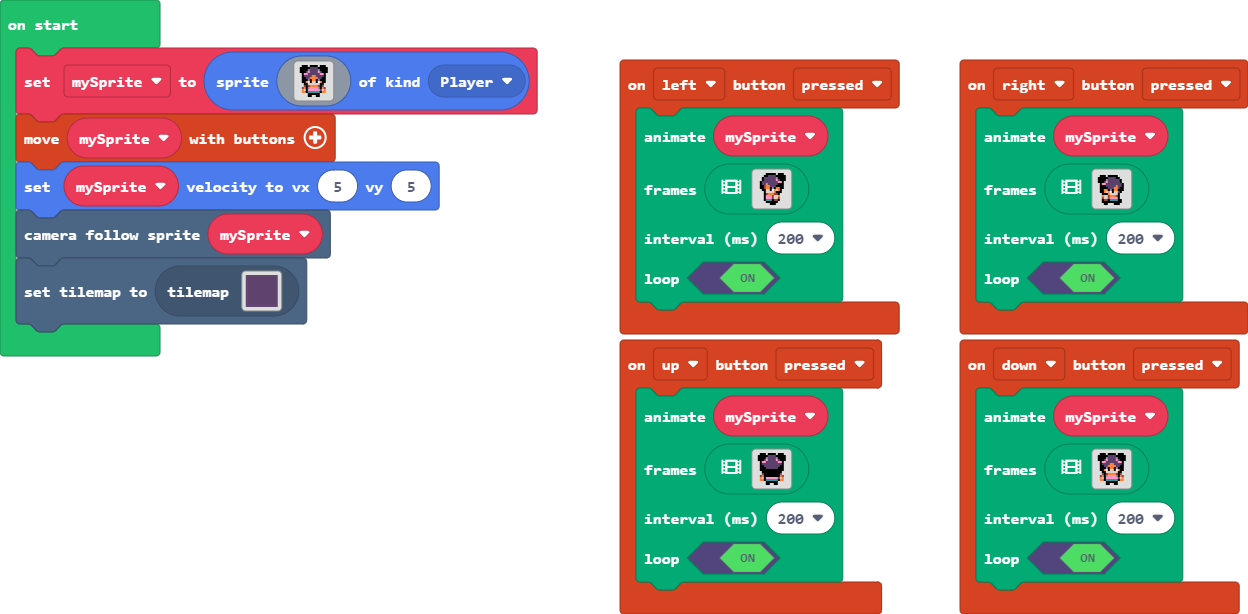
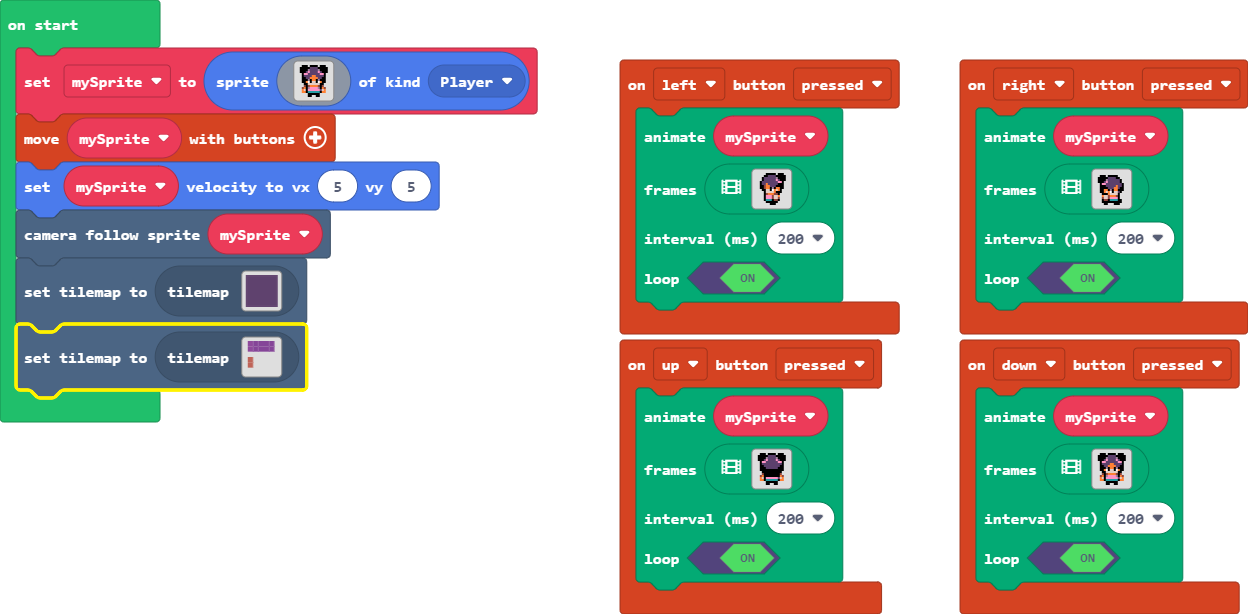
Update main.blocks, main.ts, tilemap.g.jres, tilemap.g.ts

Changed region(s): [[0.0, 0.5261, 0.25, 0.7117]]

diff --git a/tilemap.g.ts b/tilemap.g.ts
@@ -43,6 +43,15 @@ namespace myTiles {
 . . . . . . . . . . . . . . . . 
 . . . . . . . . . . . . . . . . 
 `, [myTiles.transparency16,sprites.dungeon.darkGroundNorthWest0,sprites.dungeon.darkGroundNorth,sprites.dungeon.darkGroundNorthEast0,sprites.dungeon.darkGroundEast,sprites.dungeon.darkGroundWest,sprites.dungeon.darkGroundSouthWest0,sprites.dungeon.darkGroundSouthEast0,sprites.dungeon.darkGroundSouth,sprites.dungeon.darkGroundCenter], TileScale.Sixteen);
+            case "level3":
+            case "level3":return tiles.createTilemap(hex`05000600030404040402010101010000000000050000000005000000000000000000`, img`
+. . . . . 
+. . . . . 
+. . . . . 
+. . . . . 
+. . . . . 
+. . . . . 
+`, [myTiles.transparency16,sprites.dungeon.purpleOuterSouth1,sprites.dungeon.purpleOuterSouthEast,sprites.dungeon.purpleOuterNorthWest,sprites.dungeon.purpleOuterNorth0,sprites.dungeon.stairLadder], TileScale.Sixteen);
         }
         return null;
     })

diff --git a/main.ts b/main.ts
@@ -257,3 +257,4 @@ controller.moveSprite(mySprite)
 mySprite.setVelocity(5, 5)
 scene.cameraFollowSprite(mySprite)
 tiles.setCurrentTilemap(tilemap`level2`)
+tiles.setCurrentTilemap(tilemap`level3`)
